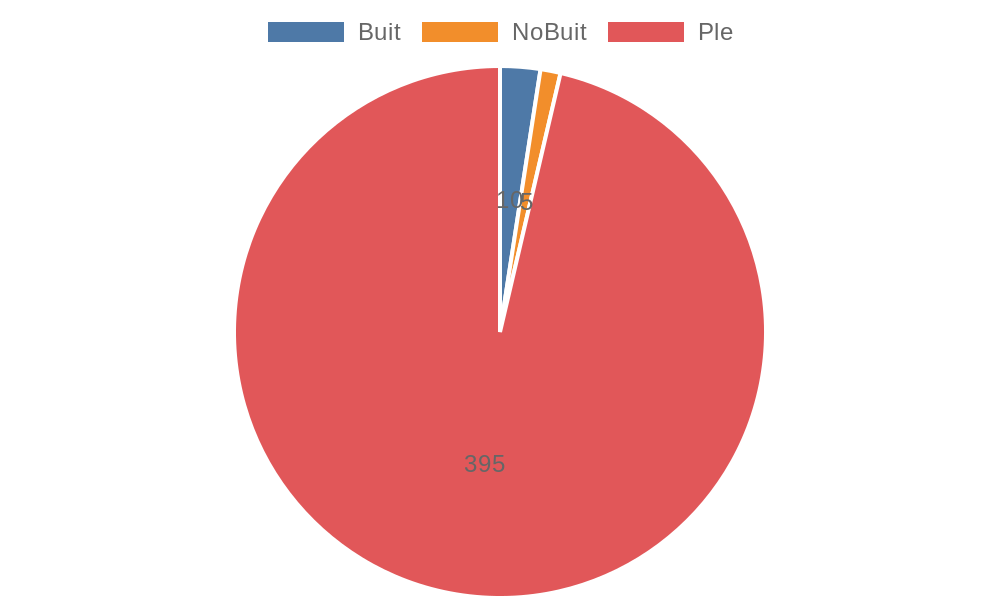
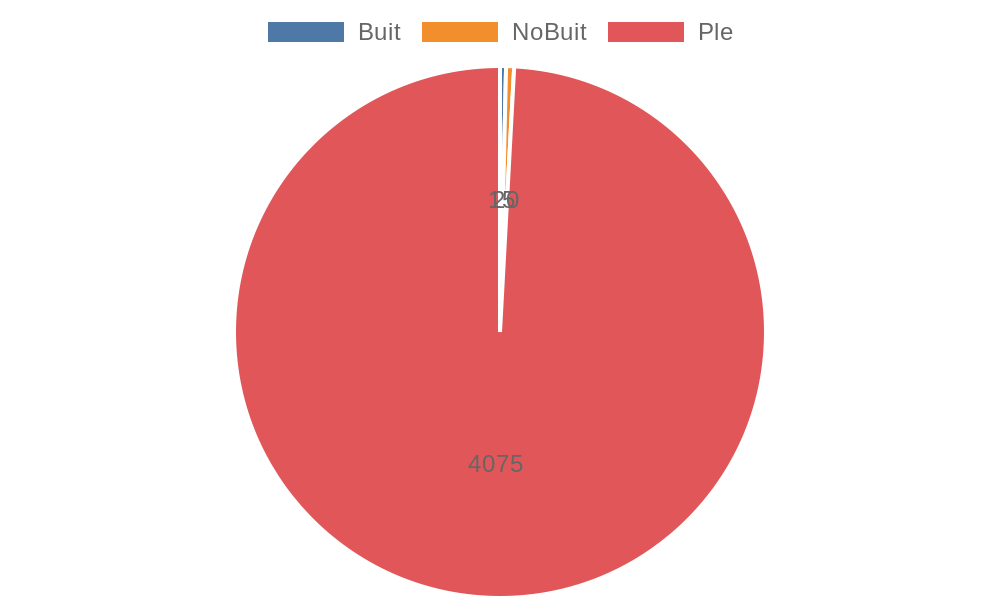
Soluciona un petit bug

Changed region(s): [[0.496, 0.09, 0.558, 0.54], [0.465, 0.75, 0.527, 0.81]]

diff --git a/Assets/Scripts/Objectes/ProcessadorScript.cs b/Assets/Scripts/Objectes/ProcessadorScript.cs
@@ -20,7 +20,7 @@ public class ProcessadorScript : LlibreriaObjectes, ITractarEsdeveniment
     private enum estats { DISPONIBLE, PROCESSANT, BLOQUEJAT };
     private estats estat;
     private Queue<GameObject> entitatsAEnviar = new Queue<GameObject>();
-    private Queue<GameObject> objectesRebutjats = new Queue<GameObject>();
+    private List<GameObject> objectesRebutjats = new List<GameObject>();
     private float tempsDisponible = 0;
     private float tempsProcessat = 0;
     private float tempsBloquejat = 0;
@@ -65,7 +65,7 @@ public class ProcessadorScript : LlibreriaObjectes, ITractarEsdeveniment
         nEntitatsEnviades = 0;
         tempsMigEntitatsProcessador = 0;
         entitatsAEnviar = new Queue<GameObject>();
-        objectesRebutjats = new Queue<GameObject>();
+        objectesRebutjats = new List<GameObject>();
         entitatsProcessant = new List<GameObject>();
         tempsDisponible = 0;
         tempsProcessat = 0;
@@ -122,50 +122,48 @@ public class ProcessadorScript : LlibreriaObjectes, ITractarEsdeveniment
         else if (estat == estats.BLOQUEJAT){
             tempsBloquejat += (tActual-ultimTemps);
             ultimTemps = tActual;
-            if (entitatsAEnviar.Count > 0){
-                ++nEntitatsEnviades;
-                GameObject entitat = entitatsAEnviar.Dequeue();
-                objecteLlibreria.GetComponent<LlibreriaObjectes>().RepEntitat(entitat, this.gameObject);
-                string capacitat;
-                if (maxEntitatsParalel == -1) capacitat = "∞";
-                else capacitat = maxEntitatsParalel.ToString();
-                etiquetes.text = (entitatsProcessant.Count+entitatsAEnviar.Count)+"/"+capacitat+"\n"+transform.name;
-                if (entitatsAEnviar.Count != 0) {
-                    int nDisponible = CercaDisponible();
-                    if (nDisponible != -1){
-                        entitat = entitatsAEnviar.Dequeue();
-                        SeguentsObjectes[nDisponible].GetComponent<LlibreriaObjectes>().RepEntitat(entitat, this.gameObject);
-                        if (maxEntitatsParalel == -1) capacitat = "∞";
-                        else capacitat = maxEntitatsParalel.ToString();
-                        etiquetes.text = (entitatsProcessant.Count+entitatsAEnviar.Count)+"/"+capacitat+"\n"+transform.name;
-                        if (entitatsAEnviar.Count == 0){
-                            if (entitatsProcessant.Count == 0) estat = estats.DISPONIBLE;
-                            else estat = estats.PROCESSANT;
-                        } else {
-                            estat = estats.BLOQUEJAT;
-                        }
+            ++nEntitatsEnviades;
+            GameObject entitat = entitatsAEnviar.Dequeue();
+            objecteLlibreria.GetComponent<LlibreriaObjectes>().RepEntitat(entitat, this.gameObject);
+            string capacitat;
+            if (maxEntitatsParalel == -1) capacitat = "∞";
+            else capacitat = maxEntitatsParalel.ToString();
+            etiquetes.text = (entitatsProcessant.Count+entitatsAEnviar.Count)+"/"+capacitat+"\n"+transform.name;
+            if (entitatsAEnviar.Count != 0) {
+                int nDisponible = CercaDisponible();
+                if (nDisponible != -1){
+                    entitat = entitatsAEnviar.Dequeue();
+                    SeguentsObjectes[nDisponible].GetComponent<LlibreriaObjectes>().RepEntitat(entitat, this.gameObject);
+                    if (maxEntitatsParalel == -1) capacitat = "∞";
+                    else capacitat = maxEntitatsParalel.ToString();
+                    etiquetes.text = (entitatsProcessant.Count+entitatsAEnviar.Count)+"/"+capacitat+"\n"+transform.name;
+                    if (entitatsAEnviar.Count == 0){
+                        if (entitatsProcessant.Count == 0) estat = estats.DISPONIBLE;
+                        else estat = estats.PROCESSANT;
                         while (objectesRebutjats.Count != 0) {
                             // A la funcio AvisaDisponibilitat es fa un Dequeue del objectesRebutjats
                             if (AvisaDisponibilitat()) {
                                 break;
                             }
                         }
-
                     } else {
                         estat = estats.BLOQUEJAT;
                     }
                 } else {
-                    if (entitatsProcessant.Count == 0) estat = estats.DISPONIBLE;
-                    else estat = estats.PROCESSANT;
-                    while (objectesRebutjats.Count != 0) {
-                        // A la funcio AvisaDisponibilitat es fa un Dequeue del objectesRebutjats
-                        if (AvisaDisponibilitat()) {
-                            break;
-                        }
+                    estat = estats.BLOQUEJAT;
+                }
+            } else {
+                if (entitatsProcessant.Count == 0) estat = estats.DISPONIBLE;
+                else estat = estats.PROCESSANT;
+                while (objectesRebutjats.Count != 0) {
+                    // A la funcio AvisaDisponibilitat es fa un Dequeue del objectesRebutjats
+                    if (AvisaDisponibilitat()) {
+                        break;
                     }
                 }
-                return true;
             }
+            return true;
+            
         }
         return false;
     }
@@ -184,7 +182,7 @@ public class ProcessadorScript : LlibreriaObjectes, ITractarEsdeveniment
             if (estat == estats.BLOQUEJAT) tempsBloquejat += (tActual-ultimTemps);
             else if (estat == estats.PROCESSANT) tempsProcessat += (tActual-ultimTemps);
             ultimTemps = tActual;
-            if (!objectesRebutjats.Contains(objecteLlibreria)) objectesRebutjats.Enqueue(objecteLlibreria);
+            objectesRebutjats.Add(objecteLlibreria);
         }
         return false;
     }
@@ -194,7 +192,7 @@ public class ProcessadorScript : LlibreriaObjectes, ITractarEsdeveniment
         nEntitatsEnviades = 0;
         tempsMigEntitatsProcessador = 0;
         entitatsAEnviar = new Queue<GameObject>();
-        objectesRebutjats = new Queue<GameObject>();
+        objectesRebutjats = new List<GameObject>();
         entitatsProcessant = new List<GameObject>();
         tempsDisponible = 0;
         tempsProcessat = 0;
@@ -263,6 +261,7 @@ public class ProcessadorScript : LlibreriaObjectes, ITractarEsdeveniment
                     ++nEntitatsTractades;
                     entitatsProcessant.Remove(entitat);
                     if (entitatsAEnviar.Count > 0){
+                        //CercaDisponible();
                         entitatsAEnviar.Enqueue(entitat);
                         estat = estats.BLOQUEJAT;
                     } else {
@@ -295,7 +294,8 @@ public class ProcessadorScript : LlibreriaObjectes, ITractarEsdeveniment
     }
 
     private bool AvisaDisponibilitat(){
-        GameObject objecteNou = objectesRebutjats.Dequeue();
+        GameObject objecteNou = objectesRebutjats[0];
+        objectesRebutjats.RemoveAt(0);
         return objecteNou.GetComponent<LlibreriaObjectes>().NotificacioDisponible(this.gameObject);
     }
 

diff --git a/Assets/Scripts/Objectes/CuaScript.cs b/Assets/Scripts/Objectes/CuaScript.cs
@@ -10,7 +10,7 @@ public class CuaScript : LlibreriaObjectes
     public int capacitatMaxima = -1; // -1 == No hi ha capacitat màxima, >0 capacitat màxima de la cua
     private Queue<GameObject> cuaObjecte = new Queue<GameObject>();
     private Dictionary<GameObject, double> tempsObjecteCua = new Dictionary<GameObject, double>();
-    private Queue<GameObject> objectesRebutjats = new Queue<GameObject>();
+    private List<GameObject> objectesRebutjats = new List<GameObject>();
     private enum states { BUIT, NOBUIT, PLE };
     private states estat;
 
@@ -53,7 +53,7 @@ public class CuaScript : LlibreriaObjectes
 
     public override void IniciaSimulacio(){
         estat = states.BUIT;
-        objectesRebutjats = new Queue<GameObject>();
+        objectesRebutjats = new List<GameObject>();
         tempsObjecteCua = new Dictionary<GameObject, double>();
         cuaObjecte = new Queue<GameObject>();
         tempsBuit = 0;
@@ -72,6 +72,8 @@ public class CuaScript : LlibreriaObjectes
     {
         entitat.transform.position = transform.position + new Vector3(0,+1,0);
         if (estat == states.NOBUIT){
+            //Avisem als seguents objecte que hi ha més d'un element per enviar
+            //CercaDisponible();
             cuaObjecte.Enqueue(entitat);
             float tActual = MotorSimuladorScript.Instancia.ObteTempsActual();
             tempsObjecteCua.Add(entitat, tActual);
@@ -208,14 +210,14 @@ public class CuaScript : LlibreriaObjectes
             float tActual = MotorSimuladorScript.Instancia.ObteTempsActual();
             tempsPle += (tActual-ultimTemps);
             ultimTemps = tActual;
-            if (!objectesRebutjats.Contains(objecteLlibreria))  objectesRebutjats.Enqueue(objecteLlibreria);
+            objectesRebutjats.Add(objecteLlibreria);
             return false;
         }
     }
 
     public override void ReiniciaSimulador(){
         estat = states.BUIT;
-        objectesRebutjats = new Queue<GameObject>();
+        objectesRebutjats = new List<GameObject>();
         tempsObjecteCua = new Dictionary<GameObject, double>();
         cuaObjecte = new Queue<GameObject>();
         tempsBuit = 0;
@@ -237,7 +239,8 @@ public class CuaScript : LlibreriaObjectes
 
     // Retorna cert si l'objecte a qui s'avisa pot enviar-li una nova entitat
     private bool AvisaDisponibilitat(){
-        GameObject objecteNou = objectesRebutjats.Dequeue();
+        GameObject objecteNou = objectesRebutjats[0];
+        objectesRebutjats.RemoveAt(0);
         return objecteNou.GetComponent<LlibreriaObjectes>().NotificacioDisponible(this.gameObject);
 
     }

diff --git a/Assets/Scripts/Objectes/GeneradorScript.cs b/Assets/Scripts/Objectes/GeneradorScript.cs
@@ -74,7 +74,6 @@ public class GeneradorScript : LlibreriaObjectes, ITractarEsdeveniment
             GameObject novaEntitat = Instantiate(entitatTemporal, transform.position + new Vector3(0,+1,0), Quaternion.identity);
             objecteLlibreria.GetComponent<LlibreriaObjectes>().RepEntitat(novaEntitat, this.gameObject);
             float tActual = MotorSimuladorScript.Instancia.ObteTempsActual();
-                    Debug.Log("TempsActual + ultim " + tActual + " " + ultimTemps);
             tempsBloquejat += (tActual - ultimTemps);
             ultimTemps = tActual;
             GenerarEsdevenimentArribada(tActual); // Es programa un nou esdeveniment d'arribada
